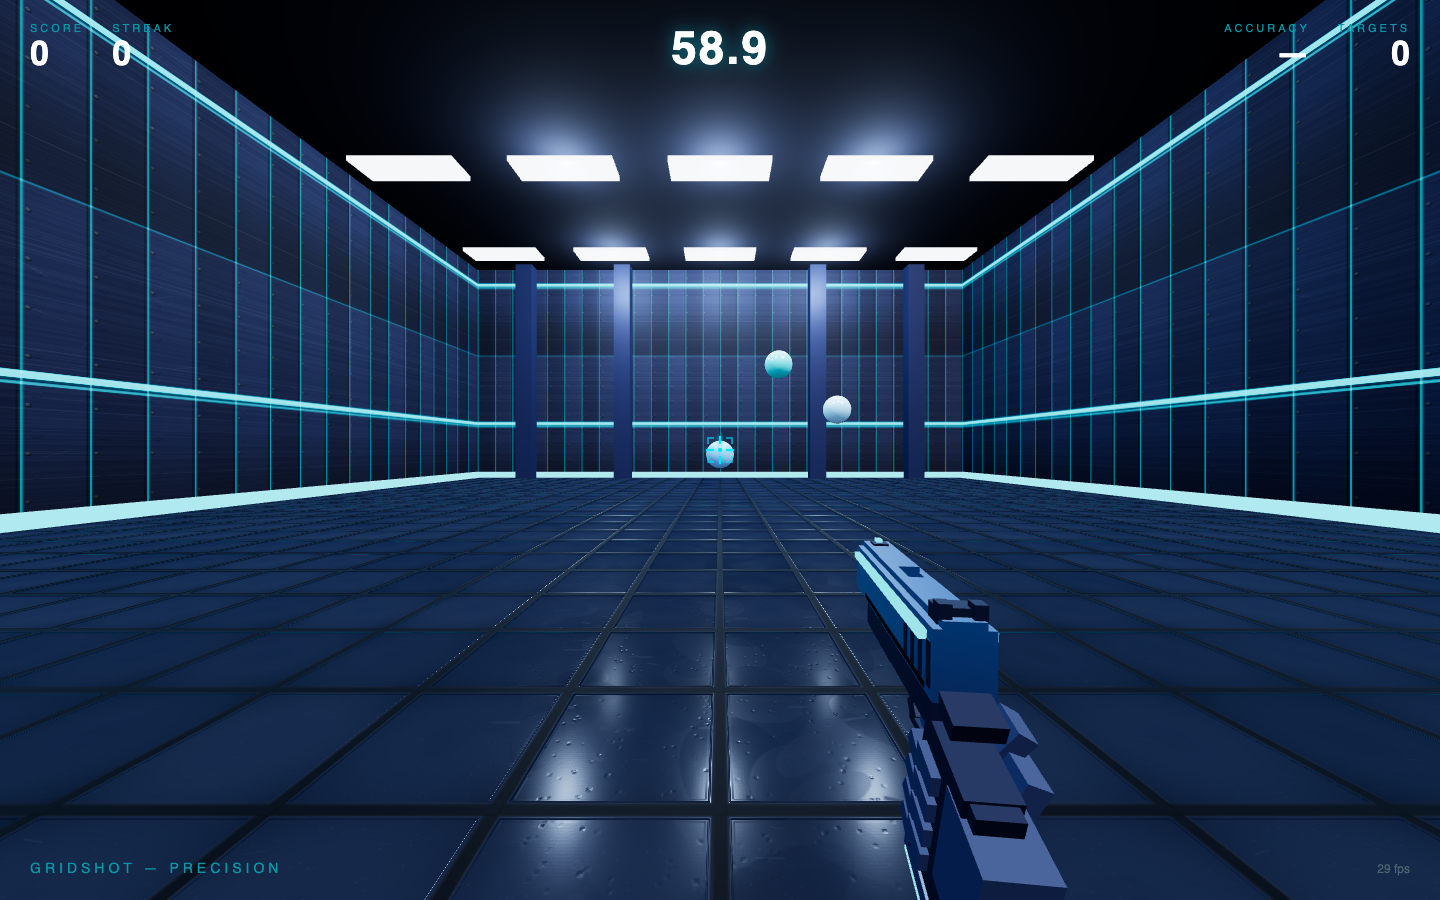
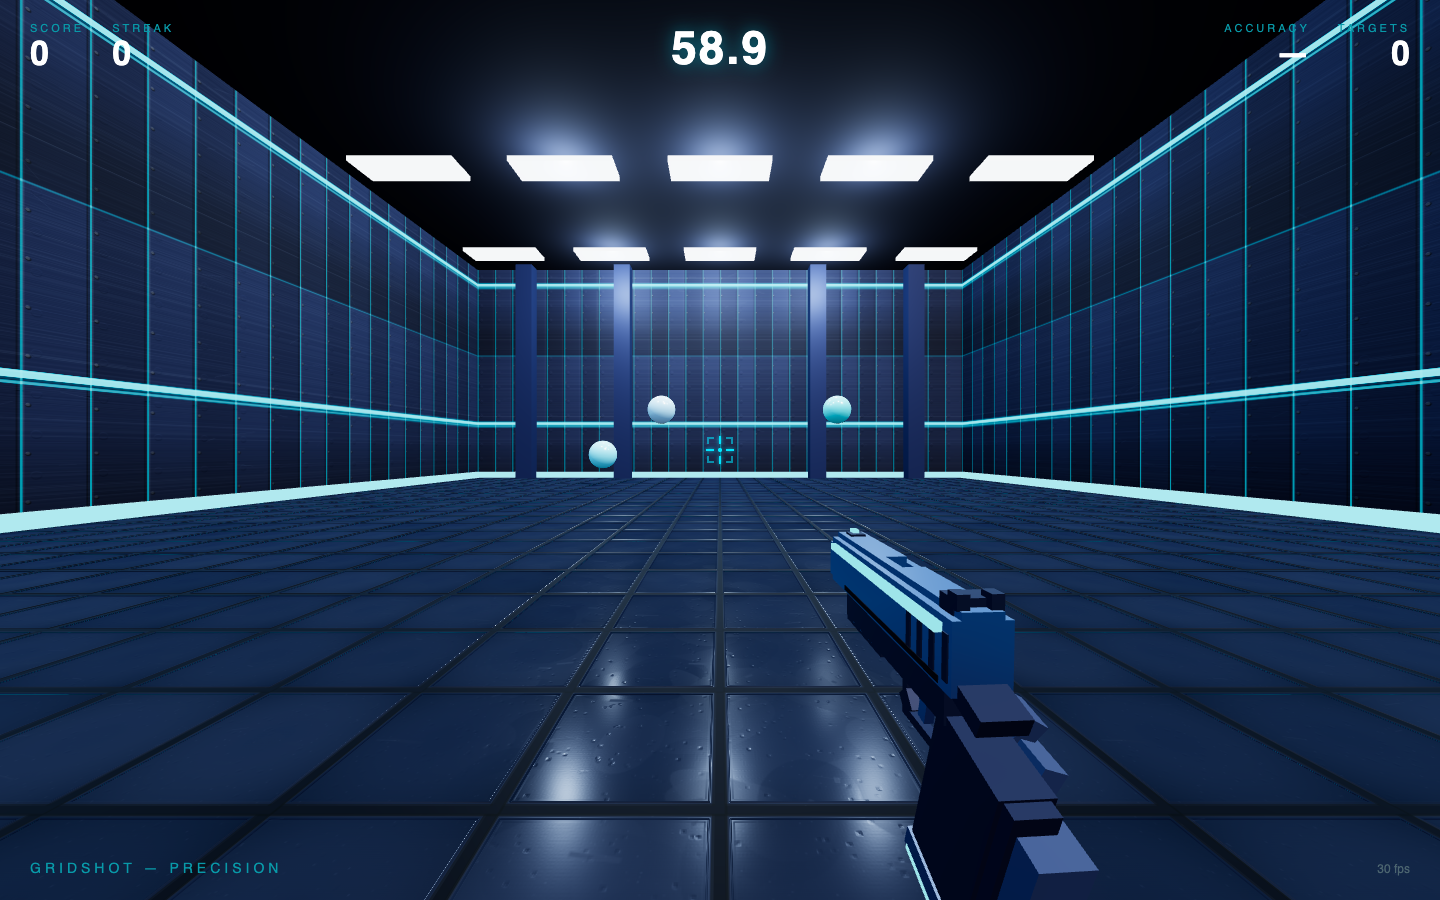
Rework the viewmodel pose and the hand
Pose: the barrel was yawed -0.10 rad, i.e. pointing OFF to the right while
the shots go straight down the aim line — the gun visibly 'aimed away' from
where bullets land. Now +0.06 so it cants inward and converges on the
crosshair, and the whole viewmodel sits a touch higher/closer (-0.26/-0.58).

Hand: the palm and finger segments were wider than the grip and centred on
it, so from the camera (right of the gun, seeing its LEFT face) they read as
a stack of slabs lying on the flank. Fingers are now 0.03 wide, sit on the
hand's own (+x) side and curl around the grip's front edge (z -0.016, just
past the face at z -0.01).

Forearm: one 0.42-long slab → two tapered segments that run down-and-back
out of the bottom of the frame instead of lying across the screen.

diff --git a/viewmodel.js b/viewmodel.js
@@ -216,41 +216,50 @@ export function createViewmodel(camera) {
 
   group.add(slidePivot);
 
-  /* ---- gloved hand wrapping the grip ---- */
+  /* ---- gloved hand wrapping the grip ----
+     Sized/placed against the grip box (0.062 wide, front face at z≈-0.01):
+     everything sits on the +x side (the hand's own side) and the fingers
+     wrap the FRONT edge. Before this pass the fingers and palm were wider
+     than the grip itself and centred on it, so from the camera — which sits
+     to the gun's right and sees its LEFT face — they read as a stack of
+     slabs lying on the flank instead of a hand holding the gun. */
   // palm behind the grip + heel pad under it
-  add(new THREE.BoxGeometry(0.075, 0.15, 0.09), gloveMat, 0.005, -0.185, 0.115, 0.28);
-  add(new THREE.BoxGeometry(0.07, 0.06, 0.06), gloveMat, 0.005, -0.250, 0.130, 0.34);
+  add(new THREE.BoxGeometry(0.058, 0.15, 0.085), gloveMat, 0.012, -0.185, 0.108, 0.28);
+  add(new THREE.BoxGeometry(0.056, 0.06, 0.058), gloveMat, 0.012, -0.250, 0.122, 0.34);
   // four fingers wrapping the front of the grip — each finger is TWO segments
-  // (proximal flat on the grip, distal curled around its front edge)
+  // (proximal flat on the grip face, distal curled just past its front edge)
   for (let i = 0; i < 4; i++) {
     add(
-      new THREE.BoxGeometry(0.075, 0.03, 0.05),
+      new THREE.BoxGeometry(0.03, 0.028, 0.052),
       gloveMat,
-      -0.005,
+      0.014,
       -0.115 - i * 0.042,
-      0.045 - i * 0.012,
+      0.030 - i * 0.011,
       0.28
     );
     add(
-      new THREE.BoxGeometry(0.07, 0.028, 0.045),
+      new THREE.BoxGeometry(0.028, 0.026, 0.046),
       gloveMat,
-      -0.005,
-      -0.124 - i * 0.042,
-      0.002 - i * 0.011,
-      0.62
+      0.014,
+      -0.126 - i * 0.042,
+      -0.016 - i * 0.011,
+      0.7
     );
   }
   // thumb: proximal up the side, tip angled onto the frame
-  add(new THREE.BoxGeometry(0.03, 0.10, 0.05), gloveMat, 0.045, -0.13, 0.07, 0.2, 0, -0.35);
-  add(new THREE.BoxGeometry(0.028, 0.06, 0.045), gloveMat, 0.052, -0.075, 0.042, 0.25, 0, -0.55);
+  add(new THREE.BoxGeometry(0.03, 0.10, 0.05), gloveMat, 0.045, -0.13, 0.062, 0.2, 0, -0.35);
+  add(new THREE.BoxGeometry(0.028, 0.06, 0.045), gloveMat, 0.052, -0.075, 0.036, 0.25, 0, -0.55);
   // trigger finger: straight along the frame, then bent down into the guard
-  add(new THREE.BoxGeometry(0.03, 0.032, 0.16), gloveMat, 0.03, -0.065, -0.05, 0.1);
-  add(new THREE.BoxGeometry(0.028, 0.03, 0.08), gloveMat, 0.028, -0.098, -0.105, 1.0);
-  // wrist cuff with neon trim
-  add(new THREE.BoxGeometry(0.10, 0.11, 0.10), gloveMat, 0.01, -0.30, 0.19, 0.34);
-  add(new THREE.BoxGeometry(0.105, 0.014, 0.105), accentMat, 0.01, -0.345, 0.215, 0.34);
-  // forearm running off the bottom-right of the frame
-  add(new THREE.BoxGeometry(0.115, 0.115, 0.42), gloveMat, 0.03, -0.44, 0.42, 0.5, 0, 0.12);
+  add(new THREE.BoxGeometry(0.03, 0.032, 0.16), gloveMat, 0.026, -0.065, -0.05, 0.1);
+  add(new THREE.BoxGeometry(0.028, 0.03, 0.08), gloveMat, 0.024, -0.098, -0.105, 1.0);
+  /* wrist cuff with neon trim, then the forearm as TWO tapered segments that
+     run down-and-back out of the bottom of the frame. One 0.42-long slab
+     read as a plank lying across the screen; splitting it and dropping the
+     end out of frame makes it read as an arm instead. */
+  add(new THREE.BoxGeometry(0.095, 0.105, 0.10), gloveMat, 0.012, -0.30, 0.19, 0.42);
+  add(new THREE.BoxGeometry(0.10, 0.014, 0.10), accentMat, 0.012, -0.345, 0.215, 0.42);
+  add(new THREE.BoxGeometry(0.105, 0.105, 0.26), gloveMat, 0.012, -0.350, 0.332, 0.42);
+  add(new THREE.BoxGeometry(0.14, 0.14, 0.30), gloveMat, 0.016, -0.474, 0.558, 0.62, 0, 0.1);
 
   /* ---- merge: one draw call per material per pivot ----
      Every recorded part sharing a material collapses into a single mesh with
@@ -317,9 +326,13 @@ export function createViewmodel(camera) {
   flash.scale.setScalar(0.001); // invisible until fired
   slidePivot.add(flash);
 
-  /* base pose: bottom-right, angled slightly inward like a held weapon */
-  group.position.set(0.30, -0.28, -0.60);
-  group.rotation.set(0.02, -0.10, 0.0);
+  /* base pose: bottom-right corner, barrel converged slightly LEFT so it
+     lines up with where the shots actually go. A negative yaw here pointed
+     the muzzle off to the right (the gun "aimed away" from the crosshair,
+     which is what made the pose read as wrong) — the gun sits right of the
+     eye, so the barrel has to cant inward to converge on the aim line. */
+  group.position.set(0.30, -0.26, -0.58);
+  group.rotation.set(0.03, 0.06, 0.0);
   group.visible = false; // the menu is the startup state: no gun until a round
 
   camera.add(group);
@@ -336,7 +349,7 @@ export function createViewmodel(camera) {
   // head bob phase (walk tasks)
   let bobPhase = 0;
 
-  const REST = { px: 0.30, py: -0.28, pz: -0.60, rx: 0.02, ry: -0.10 };
+  const REST = { px: 0.30, py: -0.26, pz: -0.58, rx: 0.03, ry: 0.06 };
 
   /* ---- spent casings: ONE InstancedMesh (1 draw call), pooled ----
      World-space (they fall to the floor, so they can't live under the
